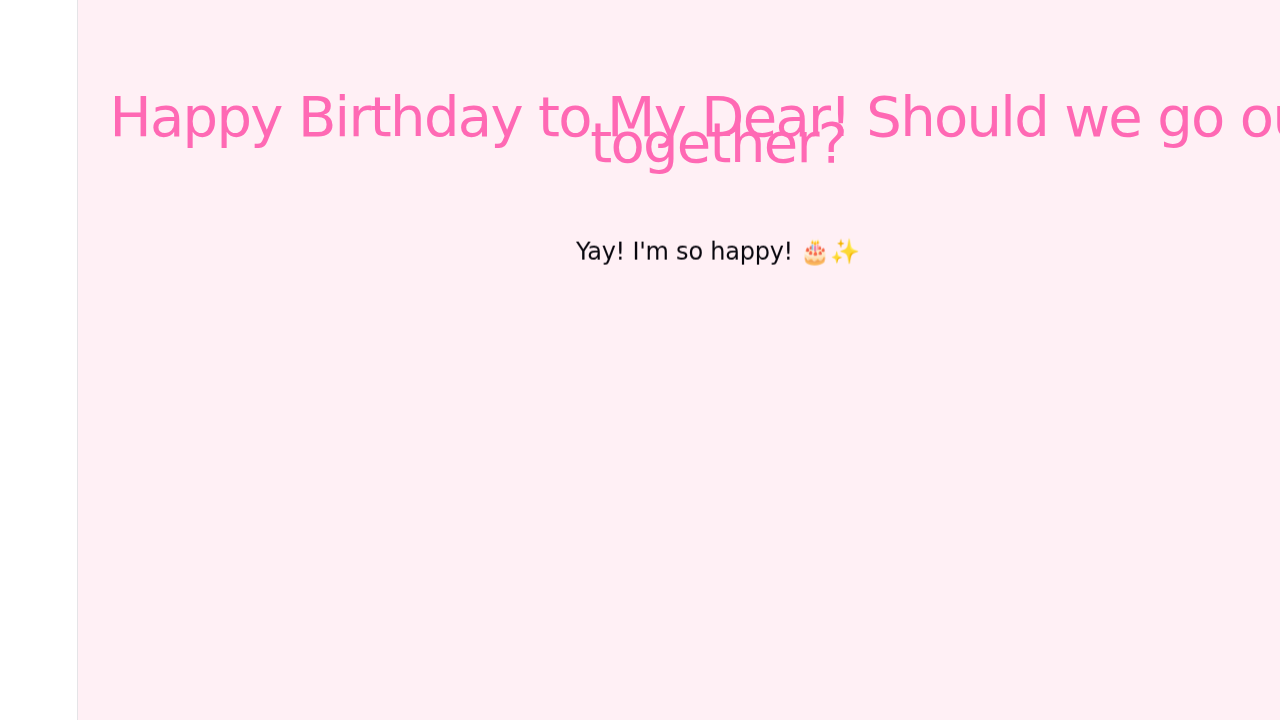
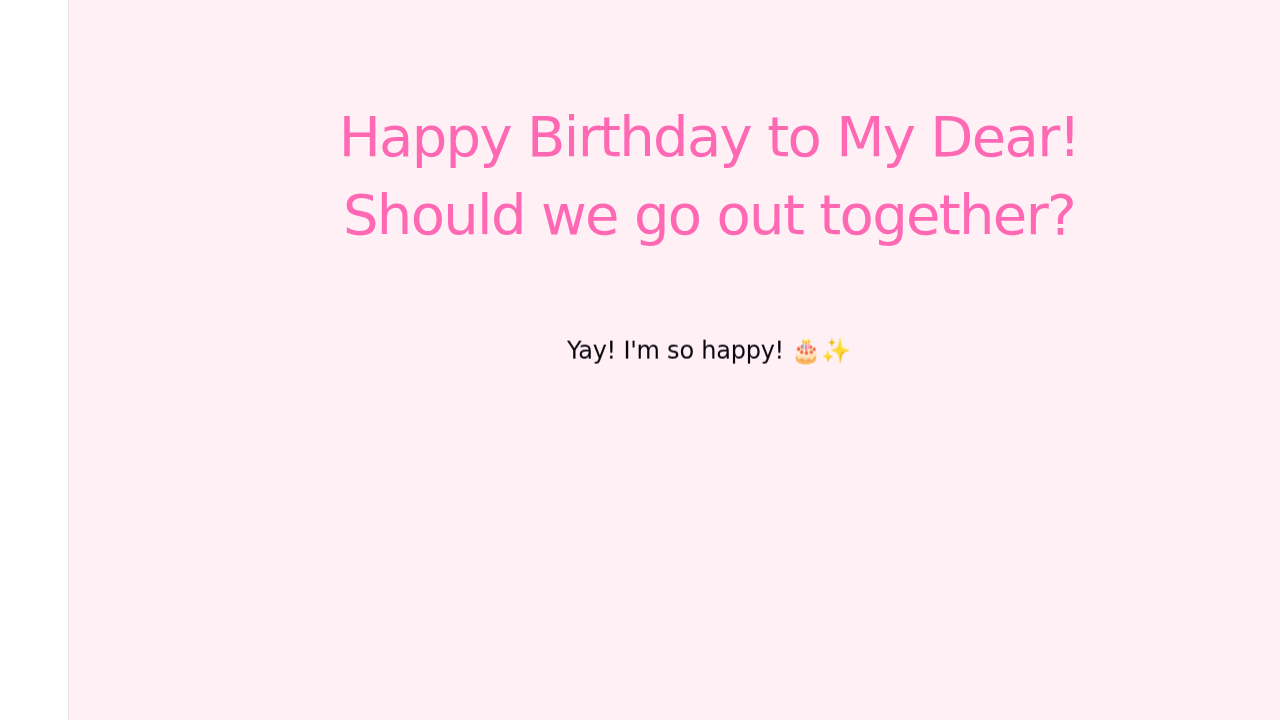
Separate birthday invitation text into two lines and fix line-height
- Added <br /> in App.tsx to split the header text.
- Added line-height: 1.4 to h1 in App.css to prevent text overlap.
- Updated tests/birthday.spec.ts to maintain compatibility with text normalization.

Changed region(s): [[0.0625, 0.1222, 1.0, 0.2444], [0.25, 0.275, 0.8438, 0.3667], [0.4375, 0.4583, 0.6562, 0.5194]]

diff --git a/src/App.tsx b/src/App.tsx
@@ -28,7 +28,9 @@ function App() {
 
   return (
     <div className="container">
-      <h1>Happy Birthday to My Dear! Should we go out together?</h1>
+      <h1>
+        Happy Birthday to My Dear!<br /> Should we go out together?
+      </h1>
 
       {!celebrated && (
         <div className="button-container">

diff --git a/src/App.css b/src/App.css
@@ -17,6 +17,7 @@ h1 {
   text-align: center;
   padding: 0 20px;
   z-index: 10;
+  line-height: 1.4;
 }
 
 .button-container {
